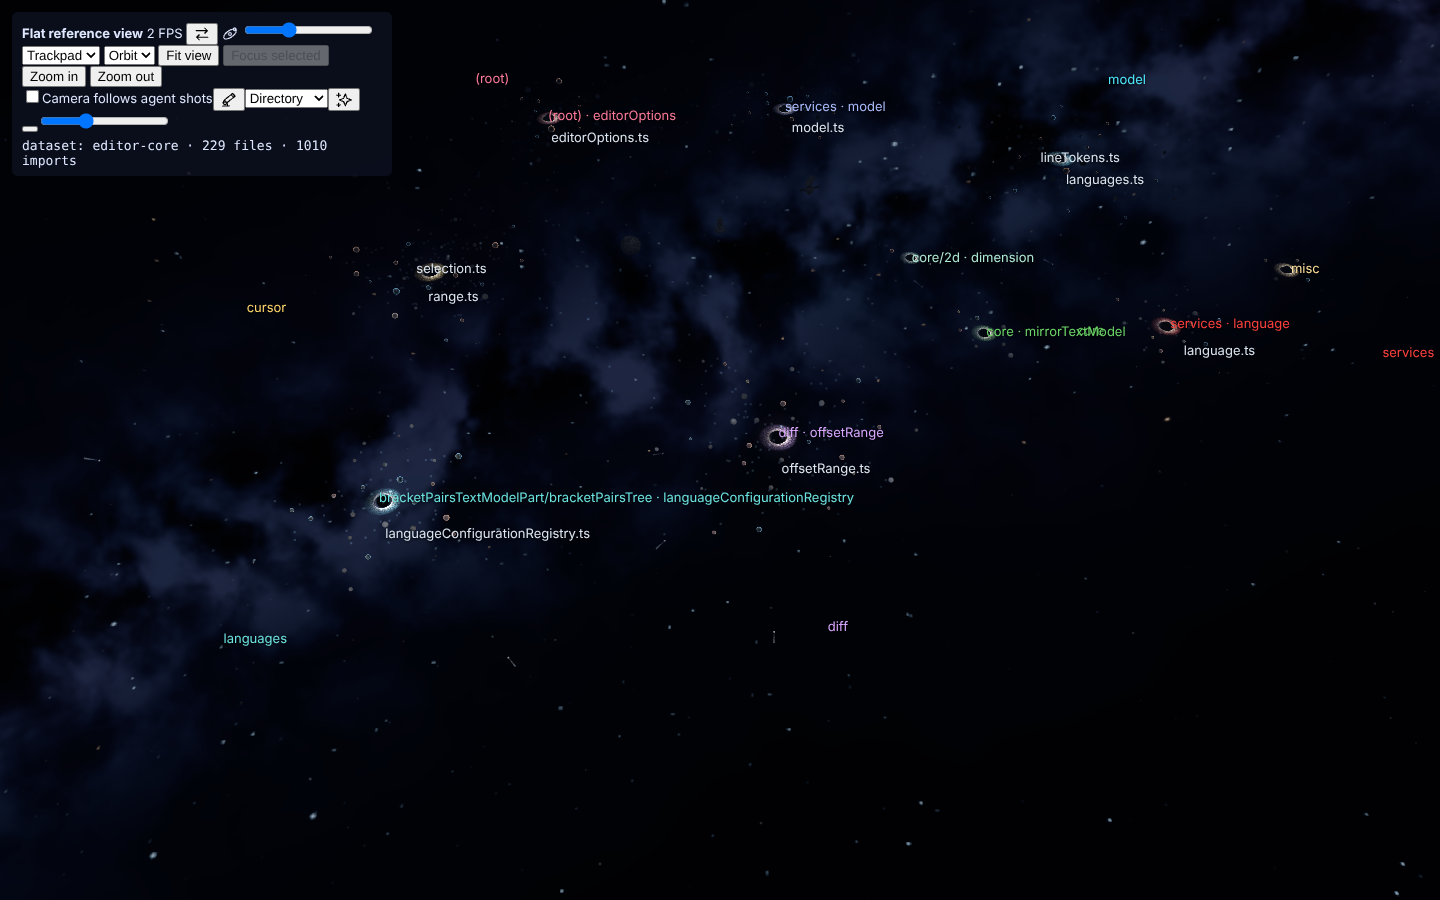
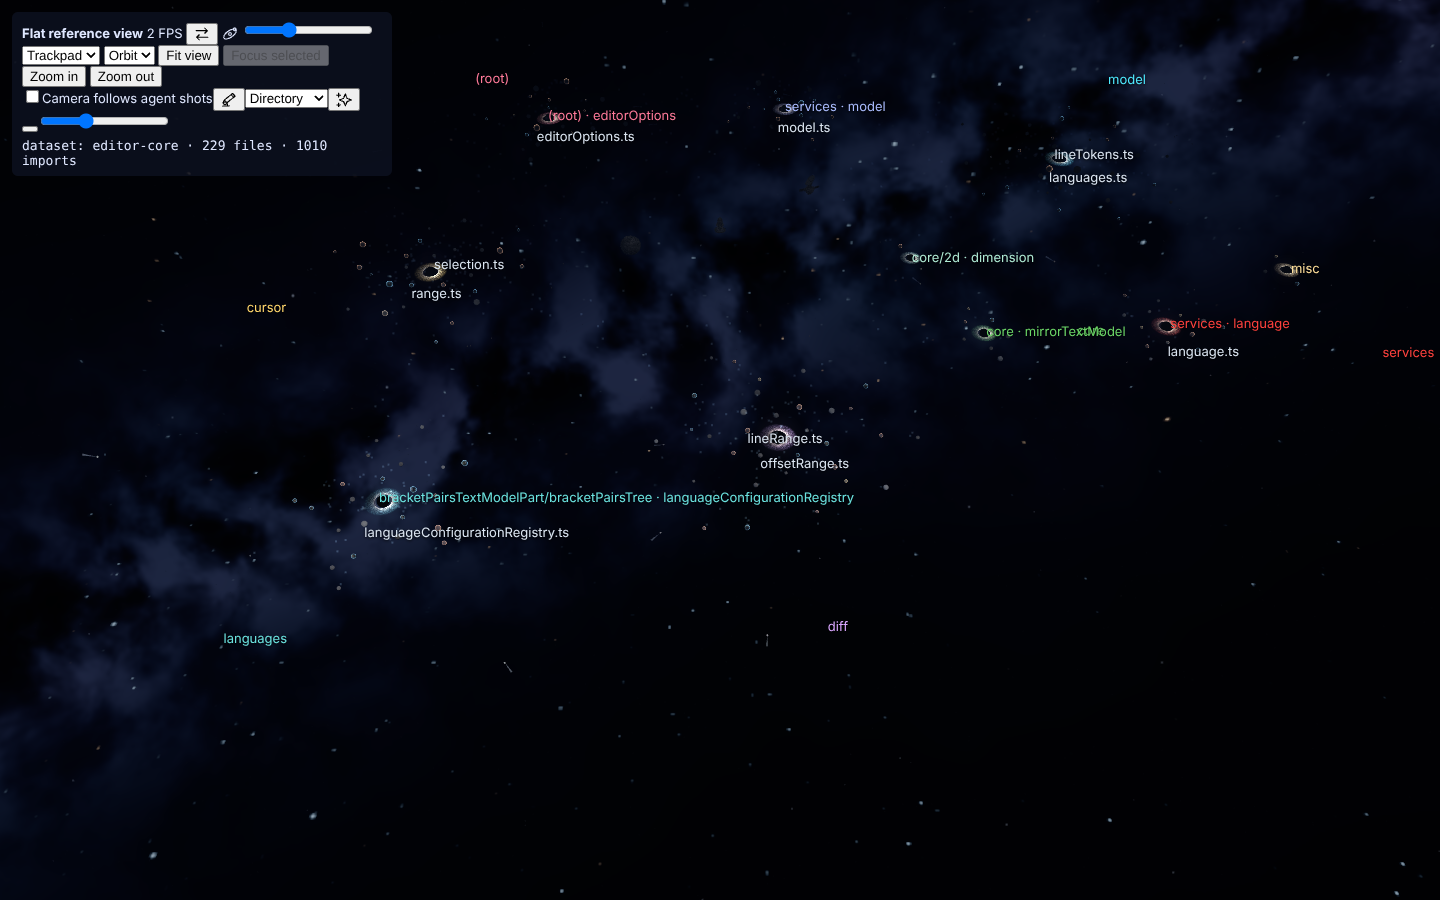
Fix two plan steps found by rehearsing it from a fresh clone
Following the plan literally from a new clone showed that npm does not
run the project's postinstall script when packages are named on the
command line, so the browser runtime was never copied. The step now runs
it explicitly.

The landing smoke test also waits for the camera to come to rest, so its
screenshot shows the town rather than a frame from the approach. The
reference screenshots are refreshed from the rehearsal.

Claude-Session: https://claude.ai/code/session_01HfJpRSzyipxSqaMhup3wNS

diff --git a/docs/plans/m0-migration.md b/docs/plans/m0-migration.md
@@ -130,7 +130,7 @@ git clone https://github.com/nnetraga97/orrery.git .
 git checkout -b m0-migration
 git log --oneline -1
 ```
-Expected: the clone finishes (about 125 MB) and you are on a new branch `m0-migration`.
+Expected: the clone finishes (about 90 MB to download) and you are on a new branch `m0-migration`.
 
 - [ ] **Step 3: Check the contents**
 
@@ -252,7 +252,8 @@ npm install --save-dev typescript@^5.9.3 ignore@^7.0.12 @types/d3@^7.4.3 \
 The `SHARP` line reads the version the scaffold pins in `overrides` and installs
 exactly that, because npm refuses a direct dependency that conflicts with an override.
 
-Expected: both commands end with `added N packages` and no `ERR!` lines.
+Expected: each command prints `added N packages` and no `ERR!` lines. Lines about
+`npm audit` or deprecated packages are normal; do not run `npm audit fix`.
 
 | Package | Used by |
 | --- | --- |
@@ -268,11 +269,14 @@ Expected: `1`.
 If it is greater than 1, stop and report: a dependency brought its own three.js,
 which breaks the scene code.
 
-- [ ] **Step 3: Check the browser runtime was copied**
+- [ ] **Step 3: Copy the browser runtime**
 
-Run: `ls public/vendor/runtime`
-Expected: `typescript.LICENSE  typescript.js`. If the folder is missing, run
-`npm run postinstall`.
+Run: `npm run postinstall && ls public/vendor/runtime`
+Expected: `Copied the TypeScript runtime to public/vendor/runtime/.` and then
+`typescript.LICENSE  typescript.js`.
+
+(npm runs this script by itself on a plain `npm install`, but not when packages are
+named on the command line, as they were in Step 1.)
 
 - [ ] **Step 4: Install the test browser**
 
@@ -399,8 +403,9 @@ Open the three files in `docs/migration/`.
 - Overview: a starfield, a black hole with small planets around it and file-name
   labels (`java.js`, `code-model.js`), and near the middle a station, a satellite and
   a cratered moon.
-- Town: a planet's surface, roads with lane markings, small buildings along them, and
-  a label beginning `L20 · Return ·`.
+- Town: a planet with a town on it, the function label `validLayoutMemory`, and a
+  label beginning `L20 · Return ·`. With the camera close you also see roads with lane
+  markings and small buildings along them.
 - Demo dataset: many small systems spread across the view, with group labels such as
   `cursor`, `model`, `languages` and `diff`, and file labels such as `range.ts`.
 

diff --git a/docs/plans/m0-handoff-prompt.md b/docs/plans/m0-handoff-prompt.md
@@ -37,7 +37,7 @@ begin the next milestone.
 ## Before you start
 
 - Node 22.12 or newer (or Node 24), npm and git installed.
-- About 2 GB of free disk: the clone is roughly 125 MB and `node_modules` about 700 MB.
+- About 3 GB of free disk: the clone is roughly 300 MB on disk and `node_modules` about 1.2 GB.
 - If the agent asks for permission to run `npm create @iwsdk@1.1.0-rc.2 ...` or
   `npx playwright install chromium`, approve it: both are steps of the plan.
 - Nothing in this milestone needs a key or an account.
